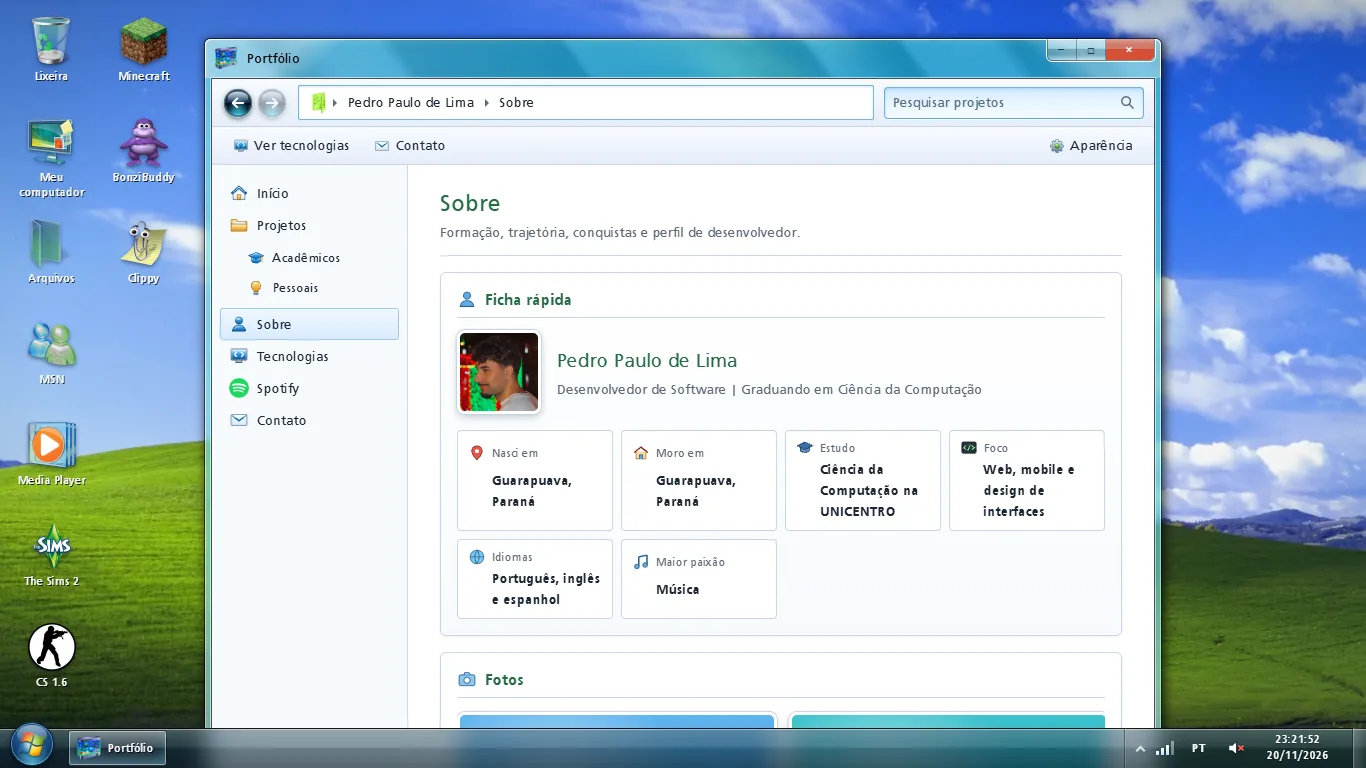
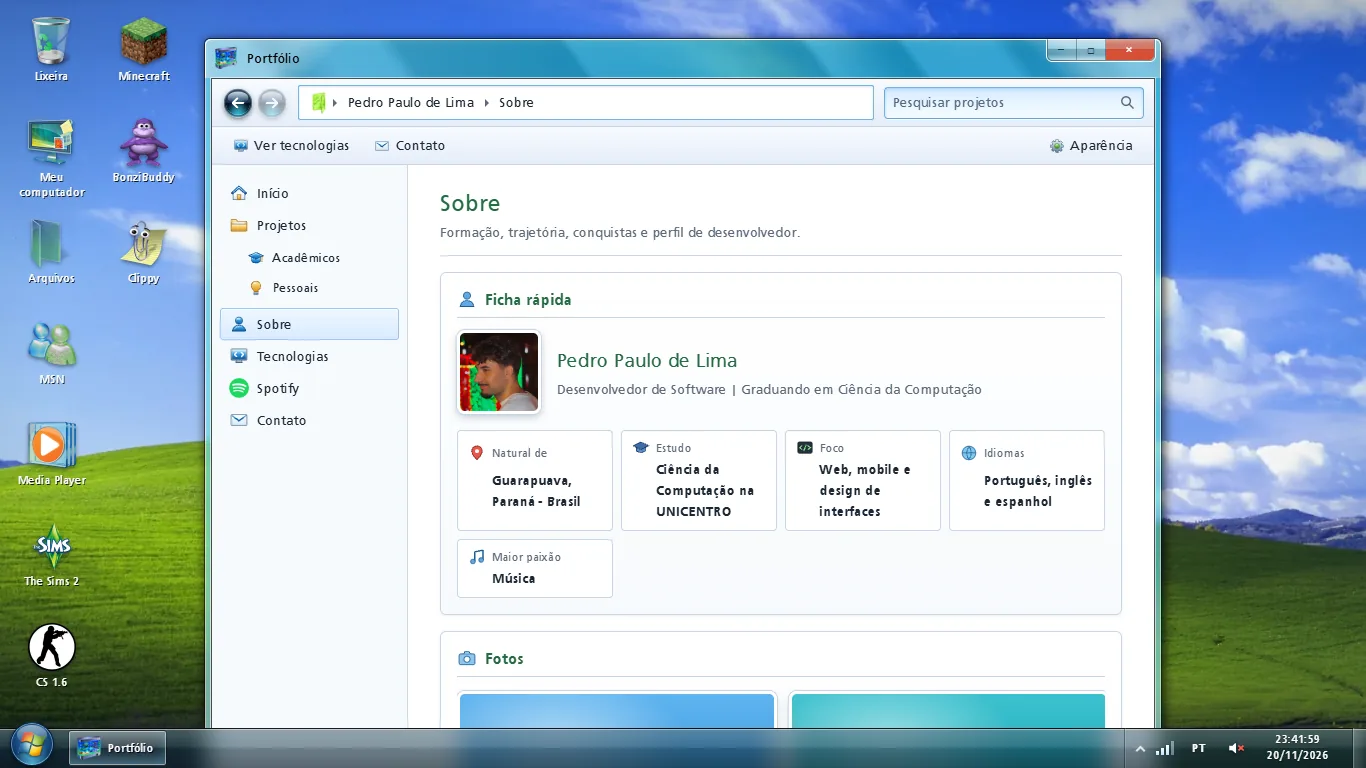
correção

diff --git a/src/components/spotify/spotify.css b/src/components/spotify/spotify.css
@@ -599,9 +599,14 @@ a.sp-playlist:active {
 }
 .sp-fav-tracks > li {
   border: 1px solid transparent;
-  border-radius: 6px;
+  border-bottom-color: var(--divider);
+  border-radius: 0;
+}
+.sp-fav-tracks > li:last-child {
+  border-bottom-color: transparent;
 }
 .sp-fav-tracks > li.is-open {
+  border-radius: 6px;
   padding-bottom: 6px;
   background: linear-gradient(var(--selection-top), var(--selection-bottom));
   border-color: var(--selection-border);
@@ -625,49 +630,41 @@ a.sp-playlist:active {
     text-decoration: underline;
   }
 }
-/* Botão de prévia: círculo verde do Spotify com "play" (ou "parar" aberto). */
+/* Botão de prévia: o orbe "Obsidiana cromada" da tela inicial (Entrar em contato),
+   na versão verde do Spotify: mesma receita, só com os tons trocados. */
 .sp-preview-button {
   flex: none;
   display: grid;
   place-items: center;
-  width: 36px;
-  height: 36px;
+  width: 40px;
+  height: 40px;
   padding: 0;
-  border: 1px solid #148a3d;
+  border: 0;
   border-radius: 50%;
-  background:
-    radial-gradient(ellipse 70% 45% at 50% 20%, rgba(255, 255, 255, 0.55), transparent 70%),
-    linear-gradient(#3fe07a, #1db954 55%, #14953f);
-  box-shadow: 0 1px 3px rgba(0, 60, 20, 0.35);
+  background: transparent;
   cursor: pointer;
-  transition:
-    transform 140ms ease,
-    filter 140ms ease;
 }
-@media (hover: hover) {
-  .sp-preview-button:hover {
-    filter: brightness(1.08);
-    transform: scale(1.06);
-  }
+.sp-preview-button .v9 {
+  border-color: #c4ffd2;
+  background:
+    radial-gradient(ellipse at 50% 115%, #5dff8f, transparent 55%),
+    linear-gradient(#4f8a63, #1a4a2d 48%, #072310 51%, #17652f);
+  box-shadow:
+    inset 0 0 0 3px #b0e3bd66,
+    inset 0 0 0 4px #0009,
+    0 5px 12px #0008,
+    0 0 14px #1ed76055;
 }
-.sp-preview-button:active {
-  transform: scale(0.95);
+.sp-preview-button .v9::before {
+  background: linear-gradient(#eafff0cf, #ffffff08);
+}
+.sp-preview-button .v9::after {
+  border-bottom-color: #a1ffb899;
 }
 .sp-preview-button:focus-visible {
   outline: 2px solid var(--focus);
   outline-offset: 2px;
-}
-.sp-preview-button__play {
-  margin-left: 3px;
-  border-left: 11px solid #fff;
-  border-top: 7px solid transparent;
-  border-bottom: 7px solid transparent;
-}
-.sp-preview-button__stop {
-  width: 11px;
-  height: 11px;
-  background: #fff;
-  border-radius: 2px;
+  border-radius: 50%;
 }
 .sp-embed {
   display: block;
@@ -749,4 +746,16 @@ a.sp-playlist:active {
   margin: 0 0 var(--space-4);
   font-size: var(--text-small);
   color: var(--text-secondary);
+}
+
+/* Artistas: cada um num ladrilho separado por borda, para distinguir um do outro. */
+.sp-fav-artists {
+  gap: var(--space-3);
+}
+.sp-fav-artists > li {
+  min-width: 0;
+  padding: 10px 6px 8px;
+  background: linear-gradient(var(--surface), var(--sidebar));
+  border: 1px solid var(--divider);
+  border-radius: 6px;
 }

diff --git a/src/components/spotify/SpotifyFavorites.tsx b/src/components/spotify/SpotifyFavorites.tsx
@@ -3,7 +3,20 @@ import { portfolio } from '../../data/portfolio';
 import { useI18n } from '../../i18n/I18n';
 import { duckAmbient } from '../../lib/ambient';
 import type { SpotifyFavorites as Favorites } from '../../types/spotify';
+import { Orb } from '../ui/Orb';
 import { Artists, Artwork, SpotifyLinkOut } from './SpotifyParts';
+
+/** Glifos brancos na grade do orbe: tocar e parar. */
+const PREVIEW_PLAY = (
+  <svg viewBox="0 0 24 24" aria-hidden="true">
+    <path d="M8 5.5v13l11-6.5Z" fill="currentColor" />
+  </svg>
+);
+const PREVIEW_STOP = (
+  <svg viewBox="0 0 24 24" aria-hidden="true">
+    <rect x="6.5" y="6.5" width="11" height="11" rx="1.5" fill="currentColor" />
+  </svg>
+);
 
 const SLOTS = 10;
 
@@ -95,15 +108,15 @@ export function SpotifyFavorites() {
                       </SpotifyLinkOut>
                       <button
                         type="button"
-                        className="sp-preview-button"
+                        className="sp-preview-button orb-host"
                         aria-expanded={preview === track.id}
                         aria-label={preview === track.id ? t.closePreview(track.name) : t.playPreview(track.name)}
                         title={preview === track.id ? t.closePreview(track.name) : t.playPreview(track.name)}
                         onClick={() => setPreview(preview === track.id ? null : track.id)}
                       >
-                        <span
-                          className={preview === track.id ? 'sp-preview-button__stop' : 'sp-preview-button__play'}
-                        />
+                        <Orb variant={9} size={40}>
+                          {preview === track.id ? PREVIEW_STOP : PREVIEW_PLAY}
+                        </Orb>
                       </button>
                     </div>
                     {preview === track.id ? (

diff --git a/src/components/sections/ArticleLink.tsx b/src/components/sections/ArticleLink.tsx
@@ -1,0 +1,50 @@
+import { useState } from 'react';
+import { useI18n } from '../../i18n/I18n';
+import { AeroDialog } from '../ui/AeroDialog';
+
+/**
+ * Botão de um link externo (o artigo do TCC) que pede confirmação antes de
+ * sair do portfólio: uma janela explica para onde o visitante vai e só abre o
+ * link (em nova aba) se ele escolher "Continuar".
+ */
+export function ArticleLink({
+  url,
+  className = 'aero-button',
+  projectName,
+}: {
+  readonly url: string;
+  readonly className?: string;
+  readonly projectName?: string;
+}) {
+  const { t } = useI18n();
+  const [asking, setAsking] = useState(false);
+
+  return (
+    <>
+      <button type="button" className={className} aria-haspopup="dialog" onClick={() => setAsking(true)}>
+        {t.tccArticle}
+        {projectName ? <span className="sr-only">{t.ofProject(projectName)}</span> : null}
+      </button>
+      <AeroDialog
+        open={asking}
+        title={t.redirectTitle}
+        onClose={() => setAsking(false)}
+        actions={
+          <a
+            className="aero-button aero-button--primary"
+            href={url}
+            target="_blank"
+            rel="noreferrer"
+            autoFocus
+            onClick={() => setAsking(false)}
+          >
+            {t.redirectContinue}
+            <span className="sr-only">{t.opensNewTab}</span>
+          </a>
+        }
+      >
+        <p className="article-confirm">{t.redirectText()}</p>
+      </AeroDialog>
+    </>
+  );
+}

diff --git a/src/data/portfolio.ts b/src/data/portfolio.ts
@@ -128,6 +128,8 @@ export const portfolio: PortfolioData<'source'> = {
       },
       stack: ['Electron', 'JavaScript', 'HTML5', 'CSS3', 'Node.js', 'localStorage'],
       status: 'concluido',
+      // Artigo do TCC (Google Drive): o botão pede confirmação antes de abrir.
+      articleUrl: 'https://drive.google.com/file/d/1U15mf-N3OZpTMGDtZW2CBChxeqQ5ujMi/view',
       repositoryUrl: 'https://github.com/PedroPaulo00/TCC_AQUANAUTA',
       demoUrl: 'https://tcc-aquanauta.vercel.app/',
       thumbnail: {
@@ -503,7 +505,7 @@ export const portfolio: PortfolioData<'source'> = {
         '2fCwv2ppU5nTRTckomIGsd',
       ],
       // Twenty One Pilots, Joji, 5 Seconds of Summer, Balu Brigada, South Arcade,
-      // Fontaines D.C., Olivia Rodrigo, Tove Lo, Damiano David e BENEE.
+      // Fontaines D.C., Olivia Rodrigo, Tove Lo, Blusher e The Weeknd.
       artists: [
         '3YQKmKGau1PzlVlkL1iodx',
         '3MZsBdqDrRTJihTHQrO6Dq',
@@ -513,8 +515,8 @@ export const portfolio: PortfolioData<'source'> = {
         '3SXwqSqAoBz9WCI9PDQzY6',
         '1McMsnEElThX1knmY4oliG',
         '4NHQUGzhtTLFvgF5SZesLK',
-        '7AaGbSgUxJFuZ49VvclNH6',
-        '0Cp8WN4V8Tu4QJQwCN5Md4',
+        '7AZm56bjPk0tYl6LTyJu9N',
+        '1Xyo4u8uXC1ZmMpatF05PJ',
       ],
     },
   },

diff --git a/src/components/sections/ProjectCard.tsx b/src/components/sections/ProjectCard.tsx
@@ -1,5 +1,6 @@
 import { useI18n } from '../../i18n/I18n';
 import type { Project } from '../../types/portfolio';
+import { ArticleLink } from './ArticleLink';
 import { ProjectThumbnail } from './ProjectThumbnail';
 
 interface ProjectCardProps {
@@ -14,7 +15,7 @@ interface ProjectCardProps {
 export function ProjectCard({ project, onShowDetails }: ProjectCardProps) {
   const { t } = useI18n();
   const titleId = `projeto-${project.id}`;
-  const hasActions = Boolean(project.repositoryUrl || project.demoUrl || project.details);
+  const hasActions = Boolean(project.repositoryUrl || project.demoUrl || project.details || project.articleUrl);
 
   return (
     <article className="project-card" aria-labelledby={titleId}>
@@ -66,6 +67,7 @@ export function ProjectCard({ project, onShowDetails }: ProjectCardProps) {
                 </span>
               </a>
             ) : null}
+            {project.articleUrl ? <ArticleLink url={project.articleUrl} projectName={project.name} /> : null}
             {project.details ? (
               <button
                 type="button"

diff --git a/src/i18n/ui.ts b/src/i18n/ui.ts
@@ -209,6 +209,11 @@ const pt = {
   opensImage: ' (abre a imagem em nova aba)',
   technologiesUsed: 'Tecnologias usadas',
   demo: 'Demonstração',
+  tccArticle: 'Artigo do TCC',
+  redirectTitle: 'Abrir link externo',
+  redirectText: () =>
+    'Você vai sair do portfólio e abrir o artigo do TCC no Google Drive, em uma nova aba. Deseja continuar?',
+  redirectContinue: 'Continuar',
   repository: 'Repositório',
   details: 'Detalhes',
   ofProject: (name: string) => ` de ${name}`,
@@ -494,6 +499,11 @@ const en: UiStrings = {
   opensImage: ' (opens the image in a new tab)',
   technologiesUsed: 'Technologies used',
   demo: 'Demo',
+  tccArticle: 'Thesis article',
+  redirectTitle: 'Open external link',
+  redirectText: () =>
+    'You are about to leave the portfolio and open the thesis article on Google Drive, in a new tab. Continue?',
+  redirectContinue: 'Continue',
   repository: 'Repository',
   details: 'Details',
   ofProject: (name) => ` of ${name}`,

diff --git a/src/components/sections/ProjectsSection.tsx b/src/components/sections/ProjectsSection.tsx
@@ -5,6 +5,7 @@ import type { ProjectView } from '../../lib/projectView';
 import type { Project, ProjectCategory, Section } from '../../types/portfolio';
 import { AeroDialog } from '../ui/AeroDialog';
 import { Icon } from '../ui/Icon';
+import { ArticleLink } from './ArticleLink';
 import { ProjectCard } from './ProjectCard';
 import { ProjectThumbnail } from './ProjectThumbnail';
 import { SectionHeader } from './SectionHeader';
@@ -125,6 +126,7 @@ export function ProjectsSection({ section, projects, category, query, onClearQue
                   <span className="sr-only">{t.opensNewTab}</span>
                 </a>
               ) : null}
+              {detailed.articleUrl ? <ArticleLink url={detailed.articleUrl} /> : null}
             </>
           ) : null
         }

diff --git a/src/types/portfolio.ts b/src/types/portfolio.ts
@@ -60,6 +60,8 @@ export interface Project<M extends Mode = 'view'> {
   /** Sem URL, o botão correspondente não é exibido. */
   readonly repositoryUrl?: string;
   readonly demoUrl?: string;
+  /** Artigo/relatório (ex.: o artigo do TCC). O botão pede confirmação antes de sair do site. */
+  readonly articleUrl?: string;
   readonly details?: Prose<M>;
   /** Capturas exibidas na janela Detalhes (formato livre). */
   readonly gallery?: readonly ProjectImage<M>[];

diff --git a/README.md b/README.md
@@ -20,10 +20,10 @@ Portfólio pessoal de **Pedro Paulo de Lima**, desenvolvedor de software e gradu
 
 - **Janela Aero navegável:** voltar/avançar sincronizados com o navegador, barra de localização, pesquisa de projetos e menu Iniciar com tema claro/escuro (com papel de parede de dia e de noite) e três modos de vidro.
 - **Início** com foto, apresentação e destaque da apresentação do TCC.
-- **Projetos** com filtro por categoria, busca, modos de exibição como os do Explorer (ícones grandes, lista, detalhes...) e janela de detalhes com galeria de capturas.
-- **Sobre** em cartões: ficha rápida, carrossel de fotos, história, conquistas, formação, interesses e idiomas.
+- **Projetos** com filtro por categoria, busca, modos de exibição como os do Explorer (ícones grandes, lista, detalhes...) e janela de detalhes com galeria de capturas. O Aquanauta tem o botão **Artigo do TCC**, que pede confirmação antes de levar ao artigo no Google Drive.
+- **Sobre** em cartões: ficha rápida (de onde sou, o que estudo, foco, idiomas e paixão), carrossel de fotos, história, conquistas, formação, interesses e idiomas.
 - **Tecnologias** em grupos, com ícone em cada item. Ao clicar, uma explicação curta do que é a ferramenta.
-- **Spotify ao vivo:** perfil, música tocando agora e últimas faixas, servidos por uma função serverless (as credenciais nunca chegam ao navegador). Mais o **top 10 de músicas e de artistas preferidos**, com capas e fotos vindas do Spotify e prévia de cada música pelo player oficial.
+- **Spotify ao vivo:** perfil, música tocando agora e últimas faixas, servidos por uma função serverless (as credenciais nunca chegam ao navegador). Mais o **top 10 de músicas e de artistas preferidos** (escolhidos à mão, não os mais ouvidos), com capas e fotos vindas do Spotify e prévia de cada música pelo player oficial, aberta por um orbe verde.
 - **Contador de visitas** discreto no Início, sem contar o próprio dono.
 - **Bilíngue:** idioma detectado pelo navegador, troca pelo indicador PT/EN da barra de tarefas. O build falha se algum texto ficar em uma língua só.
 
@@ -82,7 +82,8 @@ Todo o conteúdo fica em `src/data/portfolio.ts`, em português e inglês. O [gu
 
 - trocar fotos, papéis de parede e ícones (`npm run images`);
 - preencher o carrossel de fotos do Sobre e a ficha rápida;
-- escolher o top 10 do Spotify (cole os links na ordem);
+- escolher o top 10 do Spotify (cole os links ou IDs na ordem);
+- adicionar um botão de artigo, com confirmação, a um projeto (`articleUrl`);
 - acrescentar vídeos ao Media Player;
 - configurar os ícones da área de trabalho (janela, imagem, personagem ou assistente);
 - adicionar uma ferramenta e a explicação dela em Tecnologias.

diff --git a/docs/GUIA.md b/docs/GUIA.md
@@ -353,3 +353,5 @@ Fora do escopo da V1:
 - **Sobre:** cartões separados. A **ficha rápida** (`about.facts`) só mostra os itens com `value`: preencha "Nasci em" e "Moro em" para eles aparecerem. O **carrossel** (`about.photos`) mostra 5 vagas "foto em breve" enquanto estiver vazio. Para adicionar fotos: coloque a imagem em `src/assets/`, importe no topo do `portfolio.ts` e acrescente `{ src, alt }`.
 - **Tecnologias:** clicar num item abre uma explicação curta, logo abaixo dele. Os textos ficam em `src/data/skillInfo.ts`, em português e inglês. Os itens de Design e IHC têm ícones próprios em `src/assets/tech/`.
 - **Spotify, meu top 10:** cole os links do Spotify (Compartilhar → Copiar link) em `spotify.favorites.tracks` e `spotify.favorites.artists`, no `portfolio.ts`, na ordem. Capas, nomes e fotos dos artistas vêm do Spotify pela função `/api/spotify-favorites`, com cache de um dia. Cada música tem um botão de prévia que abre o player oficial do Spotify, e a música de fundo do site se cala enquanto ele está aberto. Sem lista, aparecem 10 vagas "em breve". A aba não mostra mais "Mais ouvidos nas últimas 4 semanas".
+- **Botão de artigo com confirmação:** em `portfolio.ts`, um projeto aceita `articleUrl` (hoje, o artigo do TCC no Aquanauta). O botão "Artigo do TCC" aparece no cartão e nos detalhes e abre uma janela "Abrir link externo" antes de sair do site; o link abre em nova aba só se o visitante escolher Continuar. Confira se o arquivo do Drive está compartilhado como "qualquer pessoa com o link".
+- **Ficha do Sobre:** "Natural de" mostra Guarapuava, Paraná - Brasil (`about.facts`).
